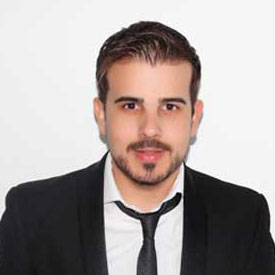
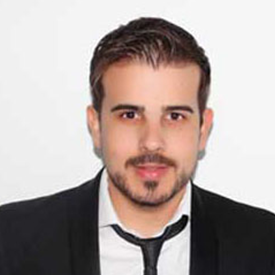
added split color effect to pictures of the team

Changed region(s): [[0.0, 0.0582, 1.0, 1.0]]

diff --git a/components/About/Team.vue b/components/About/Team.vue
@@ -54,8 +54,8 @@ export default {
     return {
       temeList: [
         {
-          image: require("../../assets/images/team/small/01-1.png"),
-          media: require("../../assets/images/team/small/01-1.png"),
+          image: require("../../assets/images/team/small/01-7.png"),
+          media: require("../../assets/images/team/small/01-7.png"),
           hoverMedia: require("../../assets/images/team/small/01.jpg"),
           title: "Raúl Jareño",
           subtitle: "CEO, Appio",
@@ -72,8 +72,8 @@ export default {
           ],
         },
         {
-          image: require("../../assets/images/team/small/02-2.png"),
-          media: require("../../assets/images/team/small/02-2.png"),
+          image: require("../../assets/images/team/small/02-4.png"),
+          media: require("../../assets/images/team/small/02-4.png"),
           hoverMedia: require("../../assets/images/team/small/02.jpg"),
           title: "Patricia Gruart",
           subtitle: "Sales Manager, Appio",
